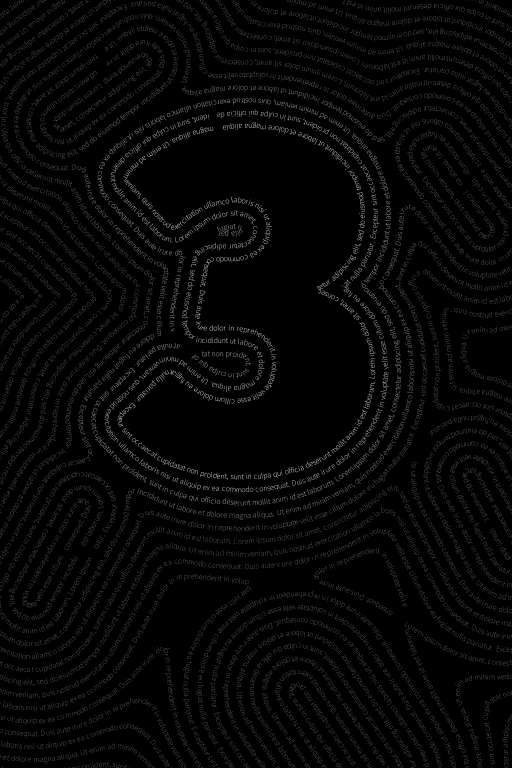
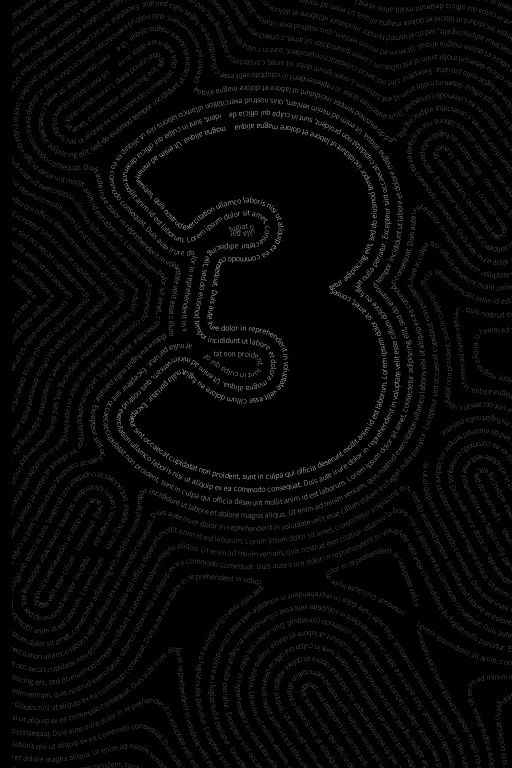
Move the cover's 1 left and its 3 and 4 right
On a device the 1 still read right of centre, and the 3 and the 4 left
of it. The painter centres each count by its ink box pulled halfway to
the ink's weight; for the 3 that rule points the wrong way, since its
open left side already makes it look left. Rather than a new rule, the
counts it gets wrong are nudged one by one: `obstacleNudge` on the
painter, set per count from `coverNudge` in render.qml.

The three masters were NOT repainted here: that needs the device's
filler face, which is not redistributable and was not to hand, and a
repaint in the host's sans changes the whole texture. The number's
place is the only thing that moved, so the shipped masks were shifted
across by the same whole pixels (-7, +12, +6). A repaint with the
nudge gives an outline identical to the shifted one, pixel for pixel,
so a later full `make textart` with the face lands in the same place.

A test reads the outlines back and holds each count where it now sits;
it fails on the old masks.

Claude-Session: https://claude.ai/code/session_01GG5LX9b7U1wkv9njBzCPf4

Changed region(s): [[0.0, 0.0, 1.0, 1.0]]

diff --git a/tools/textart/render.qml b/tools/textart/render.qml
@@ -56,6 +56,16 @@ Window {
     readonly property int coverWidth: 512
     readonly property int coverHeight: 768
 
+    /// Counts whose number is moved across by eye after the painter has
+    /// centred it, as a fraction of the digits' font size; negative is left.
+    /// See TextArtPainter's `obstacleNudge` for why there is a list at all.
+    ///
+    /// Set off a device report, not measured: the 1 still read right of
+    /// centre after the painter's half-weight shift, and the 3 and the 4
+    /// read left of it. Single counts only -- a correction is for a shape,
+    /// and an 13 is not a 1 and a 3 side by side as far as the eye goes.
+    readonly property var coverNudge: ({ "1": -0.015, "3": 0.025, "4": 0.012 })
+
     /// One cover master. `key` is the count, "99+", or "none".
     function coverJob(key) {
         if (key === "none") {
@@ -94,6 +104,7 @@ Window {
             // a cover, or it reads as pressed against the edges.
             obstacleMaxWidth: 0.72,
             obstacleMaxHeight: 0.56,
+            obstacleNudge: win.coverNudge[key] || 0,
             // The narrowest cover this must survive being cropped to. A
             // little under the platform's own 0.626, for the digits' sake.
             fitAspect: 0.60,
@@ -160,6 +171,7 @@ Window {
         obstacleMaxWidth: win.job && win.job.obstacleMaxWidth ? win.job.obstacleMaxWidth : 0.80
         obstacleMaxHeight: win.job && win.job.obstacleMaxHeight ? win.job.obstacleMaxHeight : 0.62
         obstacleEdge: win.job && win.job.obstacleEdge ? win.job.obstacleEdge : 0
+        obstacleNudge: win.job && win.job.obstacleNudge ? win.job.obstacleNudge : 0
         fillerFont: filler.status === FontLoader.Ready ? filler.name : Theme.fontFamily
         fitAspect: win.job && win.job.fitAspect ? win.job.fitAspect : 0
         reservedBottom: win.job && win.job.reservedBottom ? win.job.reservedBottom : 0

diff --git a/tools/textart/TextArtPainter.qml b/tools/textart/TextArtPainter.qml
@@ -165,6 +165,18 @@ Canvas {
     /// right bearing of 22, so its own advance box sits +10.0 off the ink
     /// box centre, against the +21.5 of the weight.
     property real obstacleOptical: 0.5
+    /// A further shift across, by eye, as a fraction of the digits' font
+    /// size: negative is left. 0 for none.
+    ///
+    /// The weight above is a measurement, and for most counts it is enough.
+    /// For a few it is not, and no one rule agrees with the eye on all of
+    /// them: the weight says a 3 should go LEFT, because its spine is on the
+    /// right, but its open left side already makes it look left of centre,
+    /// and on a device it was reported that way. So the rule stays as it is
+    /// and the counts it gets wrong are corrected one by one, by the job that
+    /// paints them -- see render.qml. A fraction of the size rather than
+    /// pixels, so a correction holds if the master or the fit changes.
+    property real obstacleNudge: 0
     /// How wide a line to trace around the digits' silhouette, in pixels of
     /// this master, or 0 for none. It is NOT painted into the pattern: it is
     /// written beside it by `saveEdge`, as a mask of its own, so the app can
@@ -649,6 +661,9 @@ Canvas {
             }
         }
         optical = inked > 0 ? art.obstacleOptical * optical / inked : 0
+        // `optical` is how far LEFT the number goes, so a nudge to the
+        // right takes away from it.
+        optical -= art.obstacleNudge * px
 
         // The shift cannot walk the number out of the crop. There is room --
         // the fit leaves (1 - obstacleMaxWidth) of the fitted width spare,

diff --git a/crates/vuo-shim/tests/qml_cover.rs b/crates/vuo-shim/tests/qml_cover.rs
@@ -412,3 +412,114 @@ fn every_mask_the_cover_can_name_exists_and_is_a_mask() {
         problems.join("\n")
     );
 }
+
+/// An 8-bit grayscale PNG, as `scripts/png-mask.py` writes them, read back
+/// to its rows. Nothing else is accepted: the test above already holds the
+/// masks to that format.
+fn read_mask(name: &str) -> (usize, usize, Vec<u8>) {
+    use std::io::Read as _;
+    let bytes = std::fs::read(repo_root().join("qml/art/cover").join(name)).unwrap();
+    let be32 = |at: usize| u32::from_be_bytes(bytes[at..at + 4].try_into().unwrap()) as usize;
+    let (w, h) = (be32(16), be32(20));
+    assert_eq!(
+        (bytes[24], bytes[25]),
+        (8, 0),
+        "{name} is not 8-bit grayscale"
+    );
+    let mut zipped = Vec::new();
+    let mut at = 8;
+    while at + 8 <= bytes.len() {
+        let len = be32(at);
+        if &bytes[at + 4..at + 8] == b"IDAT" {
+            zipped.extend_from_slice(&bytes[at + 8..at + 8 + len]);
+        }
+        at += 12 + len;
+    }
+    let mut raw = Vec::new();
+    flate2::read::ZlibDecoder::new(&zipped[..])
+        .read_to_end(&mut raw)
+        .unwrap();
+    let mut px = vec![0u8; w * h];
+    for y in 0..h {
+        let filter = raw[y * (w + 1)];
+        for x in 0..w {
+            let v = raw[y * (w + 1) + 1 + x];
+            let a = if x > 0 { px[y * w + x - 1] } else { 0 };
+            let b = if y > 0 { px[(y - 1) * w + x] } else { 0 };
+            let c = if x > 0 && y > 0 {
+                px[(y - 1) * w + x - 1]
+            } else {
+                0
+            };
+            let add = match filter {
+                0 => 0,
+                1 => a,
+                2 => b,
+                3 => ((u16::from(a) + u16::from(b)) / 2) as u8,
+                4 => {
+                    let p = i16::from(a) + i16::from(b) - i16::from(c);
+                    let (pa, pb, pc) = (
+                        (p - i16::from(a)).abs(),
+                        (p - i16::from(b)).abs(),
+                        (p - i16::from(c)).abs(),
+                    );
+                    if pa <= pb && pa <= pc {
+                        a
+                    } else if pb <= pc {
+                        b
+                    } else {
+                        c
+                    }
+                }
+                f => panic!("{name}: PNG filter {f}"),
+            };
+            px[y * w + x] = v.wrapping_add(add);
+        }
+    }
+    (w, h, px)
+}
+
+/// Where a count's outline sits across its master: the middle of the
+/// outline's ink box, in pixels right of the master's middle.
+fn outline_offset(key: &str) -> f64 {
+    let (w, h, px) = read_mask(&format!("{key}-edge.png"));
+    let inked: Vec<usize> = (0..w)
+        .filter(|&x| (0..h).any(|y| px[y * w + x] > 0))
+        .collect();
+    let (first, last) = (inked[0], inked[inked.len() - 1]);
+    (first + last) as f64 / 2.0 - (w - 1) as f64 / 2.0
+}
+
+/// The 1, the 3 and the 4 sit where they LOOK centred, which is not where
+/// the painter's weight rule alone put them -- see `coverNudge` in
+/// tools/textart/render.qml. Off a device: the 1 read right of centre, and
+/// the 3 and the 4 left of it.
+///
+/// In pixels of the 512-wide master, on the outline's ink box. The rule
+/// alone left the 1's box 18.5 left of centre, the 3's 9 left and the 4's
+/// 1.5 right; each bound sits past those, so a repaint that drops the
+/// nudge -- or masks that were never repainted -- fails here. The 2 is the
+/// control: nobody asked for it to move, and it has not.
+#[test]
+fn the_one_three_and_four_are_centred_by_eye() {
+    let one = outline_offset("1");
+    let three = outline_offset("3");
+    let four = outline_offset("4");
+    let two = outline_offset("2");
+    assert!(
+        one <= -22.0,
+        "the 1's box is {one:+} px from centre; want 22+ left"
+    );
+    assert!(
+        three >= 1.0,
+        "the 3's box is {three:+} px from centre; want right of it"
+    );
+    assert!(
+        four >= 5.0,
+        "the 4's box is {four:+} px from centre; want 5+ right"
+    );
+    assert!(
+        (two - -5.0).abs() < 1.0,
+        "the 2's box is {two:+} px from centre; it was -5 and should not have moved"
+    );
+}
